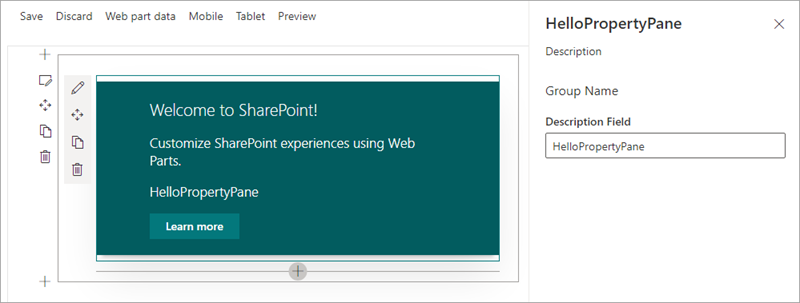
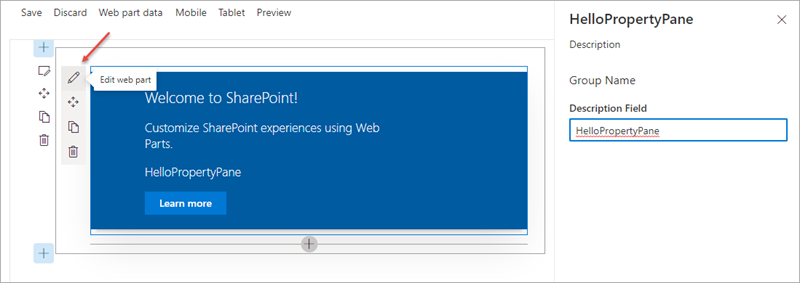
FY22Q2 refresh - sharepoint-spfx-web-part-property-pane
- run through all exercise steps in associated MSLearn module to validate good working order
- updated steps & fixed typos where necessary
- implement changes per Acrolinx feedback
- any & all users/names/company names/pictures/IDs are not real people/tenants... all are from M365 demo tenants provided by Microsoft

diff --git a/learn-m365-pr/m365-developer/sharepoint-spfx-web-part-property-pane/includes/3-exercise-web-part-property-pane.md b/learn-m365-pr/m365-developer/sharepoint-spfx-web-part-property-pane/includes/3-exercise-web-part-property-pane.md
@@ -3,7 +3,7 @@ In this exercise, you'll manipulate the property pane for a SharePoint Framework
 ## Create a new SharePoint Framework solution and web part
 
 > [!IMPORTANT]
-> The instructions below assume you are using v1.12.1 of the SharePoint Framework Yeoman generator.
+> The instructions below assume you are using v1.13.0 of the SharePoint Framework Yeoman generator.
 
 Open a command prompt and change to the folder where you want to create the project.
 
@@ -16,7 +16,7 @@ yo @microsoft/sharepoint
 Use the following to complete the prompt that is displayed (*if additional options are presented, accept the default answer*):
 
 - **What is your solution name?:** HelloPropertyPane
-- **Which baseline packages do you want to target for your component(s)?:** SharePoint Online only (latest)
+- **Only SharePoint Online (latest) is supported. For earlier versions of SharePoint (2016 and 2019) please use the 1.4.1 version of the generator.** SharePoint Online only (latest)
 - **Where do you want to place the files?:** Use the current folder
 - **Do you want to allow the tenant admin the choice of being able to deploy the solution to all sites immediately without running any feature deployment or adding apps in sites?:** No
 - **Will the components in the solution require permissions to access web APIs that are unique and not shared with other components in the tenant?:** No
@@ -33,13 +33,36 @@ When NPM completes downloading all dependencies, ensure the developer certificat
 gulp trust-dev-cert
 ```
 
-Next, verify everything is working. Execute the following command to build, start the local web server, and test the web part in the local workbench:
+Next, verify everything is working.
+
+Locate and open the file **config/serve.json**
+
+In the **serve.json** file, locate the `initialPage` setting. It's currently configured with a placeholder URL.
+
+```json
+"initialPage": "https://enter-your-SharePoint-site/_layouts/workbench.aspx",
+```
+
+Update the `initialPage` setting to open the hosted workbench:
+
+```json
+"initialPage": "https://contoso.sharepoint.com/sites/mySite/_layouts/workbench.aspx",
+```
+
+> [!NOTE]
+> Ensure you enter the proper URL of a SharePoint Online site collection you have access to.
+
+Execute the following command to build, start the local web server, and test the web part in the hosted workbench:
 
 ```console
 gulp serve
 ```
 
-When the browser loads the local workbench, select the **Add a new web part** control:
+If you see a warning dialog in the hosted workbench, switch back to the command prompt, wait for the **reload** subtask to finish executing, and then refresh the hosted workbench. 
+
+![Screenshot of the gulp serve warning](../media/gulp-serve-warning.png)
+
+Select the **Add a new web part** icon:
 
 ![Screenshot of the SharePoint Workbench](../media/03-test-webpart-01.png)
 
@@ -47,7 +70,7 @@ Select the **HelloPropertyPane** web part to add the web part to the page:
 
 ![Screenshot of HelloPropertyPane web part in the SharePoint Workbench](../media/03-test-webpart-02.png)
 
-Select the **edit web part** control to the side of the web part to display the property pane:
+Open the proprty pane by selecting the pencil (edit) icon in the toolbar to the left of the web part:
 
 ![Screenshot of HelloPropertyPane's property pane](../media/03-test-webpart-03.png)
 
@@ -91,9 +114,9 @@ Locate the following section in the file: `preconfiguredEntries[0].properties.de
 ```
 
 > [!TIP]
-> While the **gulp serve** task monitors the project's files for changes to rebuild and reload the local workbench, changes to the manifest and configuration files require restarting the local web server.
+> Changes to the manifest and configuration files will not be reflected in the workbench until you restart the local web server.
 
-Close the browser tab containing the local workbench and stop the local web server by pressing <kbd>CTRL</kbd>+<kbd>C</kbd> in the command prompt. Rebuild and restart the local web server by executing the command **gulp serve**. When the SharePoint workbench loads, add the web part back to the page to see the properties.
+Close the browser tab containing the hosted workbench and stop the local web server by pressing <kbd>CTRL</kbd>+<kbd>C</kbd> in the command prompt. Rebuild and restart the local web server by executing the command **gulp serve**. When the hosted workbench loads, add the web part back to the page to see the properties.
 
 ![Screenshot of HelloPropertyPane with values](../media/03-edit-property-pane-add-property-02.png)
 

diff --git a/learn-m365-pr/m365-developer/sharepoint-spfx-web-part-property-pane/includes/7-exercise-pnp-controls.md b/learn-m365-pr/m365-developer/sharepoint-spfx-web-part-property-pane/includes/7-exercise-pnp-controls.md
@@ -80,13 +80,34 @@ PropertyFieldPeoplePicker('people', {
 })
 ```
 
+## Configure the hosted workbench
+
+Locate and open the file **config/serve.json**
+
+In the **serve.json** file, locate the `initialPage` setting. It's currently configured with a placeholder URL.
+
+```json
+"initialPage": "https://enter-your-SharePoint-site/_layouts/workbench.aspx",
+```
+
+Update the `initialPage` setting to open the hosted workbench:
+
+```json
+"initialPage": "https://contoso.sharepoint.com/sites/mySite/_layouts/workbench.aspx",
+```
+
+> [!NOTE]
+> Ensure you enter the proper URL of a SharePoint Online site collection you have access to.
+
 ## Test the web part
 
-To test the web part, it should be run in a SharePoint Online environment where there are multiple users/groups. The benefit of using the people picker control is that it contains the logic necessary to call the SharePoint APIs that list users and groups within the current site.
+The benefit of using the people picker control is that it contains the logic necessary to call the SharePoint APIs that list users and groups within the current site.
 
-Start the project by executing **gulp serve --nobrowser** from the command line in the root of the project.
+Start the project by executing **gulp serve** from the command line in the root of the project.
 
-Open a browser and navigate to a SharePoint Online site's hosted SharePoint workbench that contains a few users in it: **https://[your-spo-tenant].sharepoint.com/[your-spo-site]/_layouts/15/workbench.aspx**.
+If you see this warning in the hosted workbench, switch back to the command prompt, wait for the **reload** subtask to finish executing, and then refresh the hosted workbench. 
+
+![Screenshot of the gulp serve warning](../media/gulp-serve-warning.png)
 
 Add the web part to the page using the same process from the previous exercises.
 
@@ -178,13 +199,9 @@ PropertyFieldCollectionData('expansionOptions', {
 
 ## Test the web part
 
-If you stopped the local webserver after adding the people picker control, start the project by executing **gulp serve --nobrowser** from the command line in the root of the project.
+If you stopped the local web server after adding the people picker control, start the project by executing **gulp serve** from the command line in the root of the project and add the web part to the page using the same process from the previous exercises. Otherwise, refresh the workbench.
 
-Open a browser and navigate to a SharePoint Online site's hosted SharePoint workbench that contains a few users in it: **https://[your-spo-tenant].sharepoint.com/[your-spo-site]/_layouts/15/workbench.aspx**.
-
-Add the web part to the page using the same process from the previous exercises.
-
-Once the web part has been added to the page, open the property pane with the edit web part icon using the same process from the previous exercises. Select the **Manage expansion options** button.
+Open the property pane with the edit web part icon using the same process from the previous exercises. Select the **Manage expansion options** button.
 
 Enter a few values in the provided fields, then select **Save**.
 

diff --git a/learn-m365-pr/m365-developer/sharepoint-spfx-web-part-property-pane/includes/1-introduction.md b/learn-m365-pr/m365-developer/sharepoint-spfx-web-part-property-pane/includes/1-introduction.md
@@ -5,7 +5,7 @@ This module will introduce you to leveraging the property pane for client-side w
 - Experience using SharePoint Online at the intermediate level
 - Ability to program with JavaScript, TypeScript, and Node.js
 - Experience using Visual Studio Code at the intermediate level
-- Access to a [Microsoft 365 tenant](https://developer.microsoft.com/office/dev-program?ocid=MSlearn)
+- Access to a [Microsoft 365 tenant](https://developer.microsoft.com/microsoft-365/dev-program?ocid=MSlearn)
 
 ## Learning objectives
 
